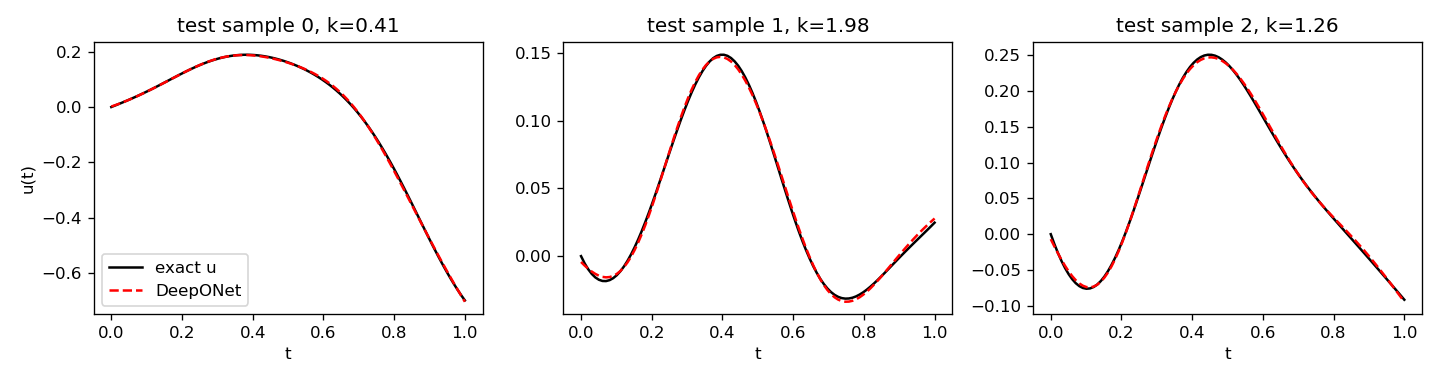
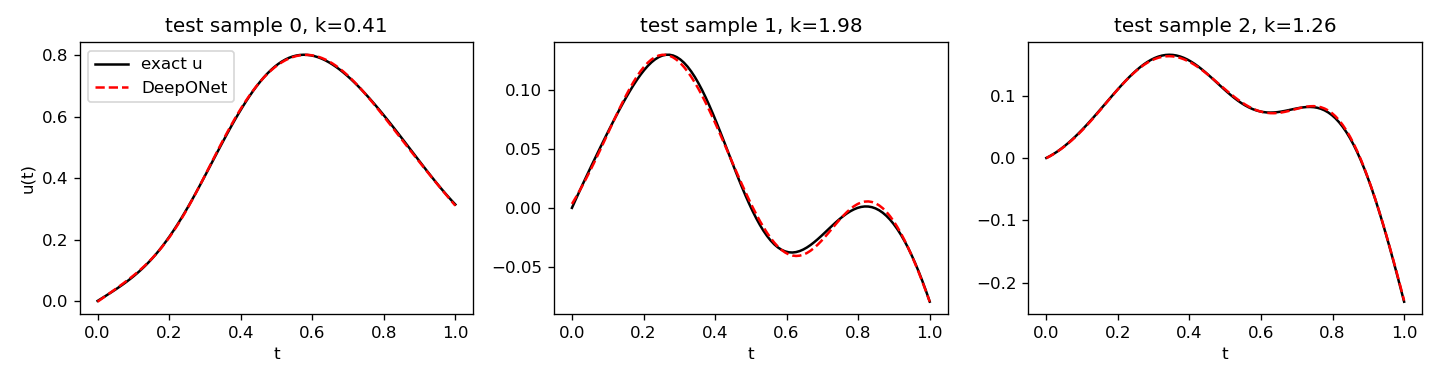
Update results for the regenerated dataset (Hub training run)

diff --git a/README.md b/README.md
@@ -21,8 +21,8 @@ and is generated by `scripts/generate_data.py` in this repository.
 
 | metric | value |
 |--------|-------|
-| test relative L2 error | 1.30 % |
-| training time (CPU) | 296 s |
+| test relative L2 error | 1.53 % |
+| training time (CPU) | 270 s |
 | train / test functions | 2000 / 500 |
 
 ## Quick start
